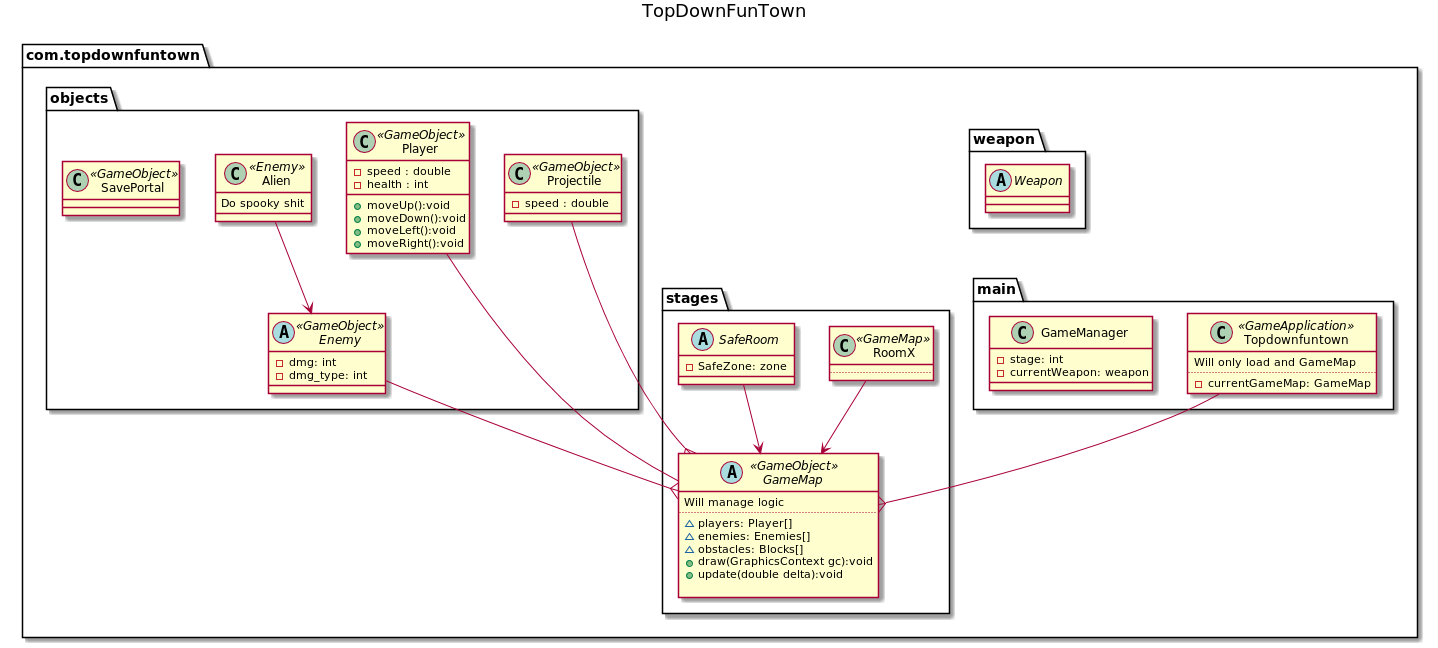
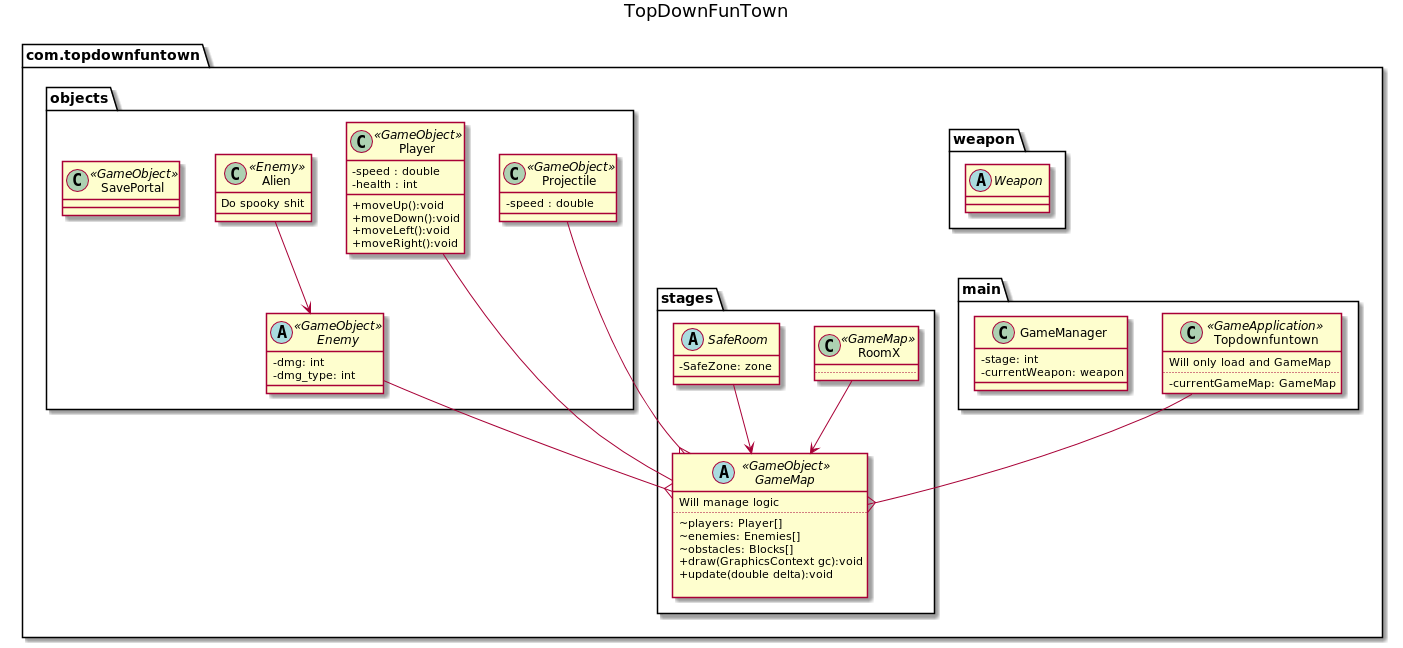
Merge branch 'master' of /home/passeride/IdeaProjects/SemesterOppgave with conflicts.

diff --git a/src/com/topdownfuntown/maps/GameMap.java b/src/com/topdownfuntown/maps/GameMap.java
@@ -1,6 +1,8 @@
 package com.topdownfuntown.maps;
 
+import com.bluebook.audio.AudioPlayer;
 import com.bluebook.graphics.Sprite;
+import com.bluebook.renderer.RenderLayer;
 import com.bluebook.util.GameObject;
 import com.bluebook.util.Vector2;
 import com.topdownfuntown.objects.Enemy;
@@ -12,29 +14,58 @@ import java.util.ArrayList;
 /**
  * Creating GameMap/Area with player, enemy and obstacle array lists.
  */
-abstract class GameMap extends GameObject {
+public class GameMap extends GameObject {
     ArrayList<Player> players = new ArrayList<Player>();
     ArrayList<Enemy> enemies = new ArrayList<Enemy>();
     ArrayList<Obstacle> obstacles = new ArrayList<Obstacle>();
 
+    private String name = "";
+    private boolean isSafeRoom = false;
+    private AudioPlayer soundTrack;
+
     /**
      * Constructor for GameObject given position rotation and sprite
      *
-     * @param position
-     * @param direction
+     *
      * @param sprite
      */
-    public GameMap(Vector2 position, Vector2 direction, Sprite sprite) {
-        super(position, direction, sprite);
+    public GameMap(Sprite sprite) {
+        super(Vector2.ZERO, Vector2.ZERO, sprite);
+        setRenderLayer(RenderLayer.RenderLayerName.BACKGROUND);
+
     }
 
     @Override
     public void draw(GraphicsContext gc) {
-        super.draw(gc);
+        sprite.drawBackground(gc);
     }
 
     @Override
     public void update(double detla) {
         super.update(detla);
+    }
+
+    public String getName() {
+        return name;
+    }
+
+    public void setName(String name) {
+        this.name = name;
+    }
+
+    public boolean isSafeRoom() {
+        return isSafeRoom;
+    }
+
+    public void setSafeRoom(boolean safeRoom) {
+        isSafeRoom = safeRoom;
+    }
+
+    public AudioPlayer getSoundTrack() {
+        return soundTrack;
+    }
+
+    public void setSoundTrack(AudioPlayer soundTrack) {
+        this.soundTrack = soundTrack;
     }
 }

diff --git a/src/com/topdownfuntown/main/Topdownfuntown.java b/src/com/topdownfuntown/main/Topdownfuntown.java
@@ -8,6 +8,8 @@ import com.bluebook.graphics.Sprite;
 import com.bluebook.graphics.SpriteLoader;
 import com.bluebook.physics.Collider;
 import com.bluebook.util.Vector2;
+import com.topdownfuntown.maps.GameMap;
+import com.topdownfuntown.maps.maploader.MapLoader;
 import com.topdownfuntown.objects.Player;
 import com.topdownfuntown.objects.Projectile;
 import javafx.scene.input.KeyCode;
@@ -19,6 +21,8 @@ public class Topdownfuntown extends GameApplication {
     Player player;
     AudioPlayer audioPlayer = new AudioPlayer(testFil);
     AudioPlayer audioPlayer1 = new AudioPlayer(testFil1);
+
+    GameMap currentGameMap;
 
     ArrayList<Projectile> projectiles = new ArrayList<>();
 
@@ -37,6 +41,9 @@ public class Topdownfuntown extends GameApplication {
         c.setName("Player");
         c.setTag("Hittable");
         c.attachToGameObject(player);
+
+
+        currentGameMap = MapLoader.loadMapJson("Default");
     }
 
     @Override
@@ -74,7 +81,7 @@ public class Topdownfuntown extends GameApplication {
     }
 
     public void shoot(){
-        projectiles.add(new Projectile(Vector2.add(player.getPosition(), Vector2.multiply(player.getDirection(), player.getSize().getX() * 1.2)), player.getDirection(), new Sprite(SpriteLoader.loadImage("/projectiles/bullet"))));
+        projectiles.add(new Projectile(Vector2.add(new Vector2(player.getPosition().getX(), player.getPosition().getY() + 25.0f), Vector2.multiply(player.getDirection(), player.getSize().getX() * 1.2)), player.getDirection(), new Sprite(SpriteLoader.loadImage("bullet"))));
 
     }
 

diff --git a/src/com/bluebook/graphics/AnimationSprite.java b/src/com/bluebook/graphics/AnimationSprite.java
@@ -31,7 +31,7 @@ public class AnimationSprite extends Sprite{
      * @param time in nanoseconds elapsed since start.
      * @return animation[index] is the current frame.
      */
-    public Image getNextFrame(double time) {
+    private Image getNextFrame(double time) {
         int index = (int)((time % (animation.length * length)) / length);
         return animation[index];
     }
@@ -49,7 +49,7 @@ public class AnimationSprite extends Sprite{
 
         double t = (System.nanoTime() - startNanoTime) / 1_000_000_000.0;
         Image img = getNextFrame(t);
-        gc.drawImage(img, position.getX() - img.getWidth() / 2f, position.getY() - img.getHeight() / 2f);
+        gc.drawImage(img, position.getX() - squareWidth / 2f, position.getY() - squareHeight / 2f, squareWidth, squareHeight);
         gc.restore();
     }
 

diff --git a/src/com/bluebook/graphics/Sprite.java b/src/com/bluebook/graphics/Sprite.java
@@ -1,6 +1,7 @@
 package com.bluebook.graphics;
 
 import com.bluebook.util.Vector2;
+import com.sun.corba.se.impl.orbutil.graph.Graph;
 import javafx.scene.canvas.GraphicsContext;
 import javafx.scene.image.Image;
 import javafx.scene.transform.Rotate;
@@ -39,6 +40,14 @@ public class Sprite {
     public void draw(GraphicsContext gc, Vector2 position, Vector2 angle){
         rotate(angle);
         draw(gc, position);
+    }
+
+    /**
+     * Used to draw background
+     * @param gc
+     */
+    public void drawBackground(GraphicsContext gc){
+        gc.drawImage(img, 0, 0, gc.getCanvas().getWidth(), gc.getCanvas().getHeight());
     }
 
     /**
